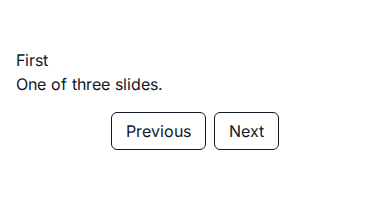
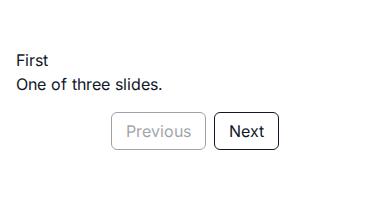
fix(astro-kit): carousel ends, footer heading link, PostCard read-more/date style/75ch excerpt (#626)

diff --git a/packages/astro-kit/tests/carousel-runtime.test.ts b/packages/astro-kit/tests/carousel-runtime.test.ts
@@ -1,0 +1,103 @@
+// @vitest-environment happy-dom
+import { afterEach, beforeEach, describe, expect, it, vi } from 'vitest'
+import { initBehaviors } from '../components/_shared/behaviors'
+
+/**
+ * A carousel island does not loop (owl's own default, `loop: false`): Previous is off on the first slide and Next on the
+ * last. Before, both were always on, so Previous on the first slide did nothing (x08's G-interaction failed on it). Run
+ * against the module itself, in a DOM; happy-dom has no layout, so the track's sizes and its scroll are stubbed.
+ */
+
+const SLIDER = '<div data-cr-behavior="carousel" data-cr-items=".slide"><div class="track"><div class="slide">One</div><div class="slide">Two</div><div class="slide">Three</div></div></div>'
+
+/** The track three 300 px slides wide, scrolled by its buttons as a browser would (`row`: its measured content width). */
+function layout(track: HTMLElement, width = 300, row = width * 3): void {
+  let left = 0
+  Object.defineProperty(track, 'clientWidth', { configurable: true, get: () => width })
+  Object.defineProperty(track, 'scrollWidth', { configurable: true, get: () => row })
+  Object.defineProperty(track, 'scrollLeft', { configurable: true, get: () => left })
+  track.scrollBy = ((options: ScrollToOptions) => {
+    left = Math.max(0, Math.min(width * 2, left + (options.left ?? 0)))
+    track.dispatchEvent(new Event('scroll'))
+  }) as typeof track.scrollBy
+}
+
+const track = () => document.querySelector<HTMLElement>('.track')!
+const buttons = () => [...document.querySelectorAll<HTMLButtonElement>('.cr-behavior-control')]
+const state = () => buttons().map(button => [button.textContent, button.disabled, button.getAttribute('aria-disabled')])
+
+beforeEach(() => {
+  document.body.innerHTML = SLIDER
+  vi.stubGlobal('ResizeObserver', undefined)
+})
+
+afterEach(() => {
+  vi.unstubAllGlobals()
+  vi.restoreAllMocks()
+})
+
+describe('carousel ends (behaviors.ts carousel)', () => {
+  it('on the first slide Previous is off, on the last Next is off, in between both are on', () => {
+    layout(track())
+    initBehaviors()
+    expect(state()).toEqual([['Previous', true, 'true'], ['Next', false, 'false']])
+    const [prev, next] = buttons()
+    next!.click()
+    expect(state()).toEqual([['Previous', false, 'false'], ['Next', false, 'false']])
+    next!.click()
+    expect(state()).toEqual([['Previous', false, 'false'], ['Next', true, 'true']])
+    prev!.click()
+    prev!.click()
+    expect(state()).toEqual([['Previous', true, 'true'], ['Next', false, 'false']])
+  })
+
+  it('a swipe (the track scrolled without the buttons) moves the ends too', () => {
+    layout(track())
+    initBehaviors()
+    track().scrollBy({ left: 600 })
+    expect(state()).toEqual([['Previous', false, 'false'], ['Next', true, 'true']])
+  })
+
+  it('a track not laid out yet (in a closed tab) keeps both on; once it has a width the resize sets the ends', () => {
+    const observed: Array<() => void> = []
+    vi.stubGlobal('ResizeObserver', class {
+      constructor(callback: () => void) { observed.push(callback) }
+      observe() {}
+    })
+    layout(track(), 0)
+    initBehaviors()
+    expect(state()).toEqual([['Previous', false, null], ['Next', false, null]])
+    layout(track())
+    for (const callback of observed) callback()
+    expect(state()).toEqual([['Previous', true, 'true'], ['Next', false, 'false']])
+  })
+  it('a row that does not overflow yet (its frame as wide as its slides) keeps both on; a slide resizing sets the ends', () => {
+    const observed: Array<{ callback: () => void, boxes: Element[] }> = []
+    vi.stubGlobal('ResizeObserver', class {
+      boxes: Element[] = []
+      constructor(callback: () => void) { observed.push({ callback, boxes: this.boxes }) }
+      observe(box: Element) { this.boxes.push(box) }
+    })
+    layout(track(), 900, 900)
+    initBehaviors()
+    expect(state()).toEqual([['Previous', false, null], ['Next', false, null]])
+    expect(observed[0]!.boxes).toEqual([track(), ...document.querySelectorAll('.slide')])
+    layout(track())
+    observed[0]!.callback()
+    expect(state()).toEqual([['Previous', true, 'true'], ['Next', false, 'false']])
+    // Back to a row that fits: both on again, never left off.
+    layout(track(), 900, 900)
+    observed[0]!.callback()
+    expect(state()).toEqual([['Previous', false, 'false'], ['Next', false, 'false']])
+  })
+
+  it('the page\'s load measures a row laid out after the script ran', () => {
+    vi.spyOn(document, 'readyState', 'get').mockReturnValue('loading')
+    layout(track(), 900, 900)
+    initBehaviors()
+    expect(state()).toEqual([['Previous', false, null], ['Next', false, null]])
+    layout(track())
+    window.dispatchEvent(new Event('load'))
+    expect(state()).toEqual([['Previous', true, 'true'], ['Next', false, 'false']])
+  })
+})

diff --git a/packages/types/src/project-plan.ts b/packages/types/src/project-plan.ts
@@ -145,8 +145,10 @@ export interface PlanSite {
    * fit), or `aspect` (`16 / 9`) where the source uses an aspect ratio; absent, 16 / 9. `gap`: the grid's column gap
    * (a CSS length). `headingWidth`: the archive title box's width (a CSS length). `tieOrder`: how posts of the same
    * moment are ordered as the source's database returned them (`asc`: the lower ID first); absent, `desc`.
+   * `moreLabel`: the source's own read-more words under each card ("READ ARTICLE"), plain text; absent, none.
+   * `dateStyle`: how the cards write their date, as the source does (`Intl` `dateStyle`); absent, `long`.
    */
-  lists?: { display: 'cards' | 'list' | 'full', heading: boolean, text?: string, tone?: 'muted', surface?: boolean, byline?: boolean, prefixed?: boolean, columns?: number, image?: { height?: string, aspect?: string }, gap?: string, headingWidth?: string, tieOrder?: 'asc' | 'desc' }
+  lists?: { display: 'cards' | 'list' | 'full', heading: boolean, text?: string, tone?: 'muted', surface?: boolean, byline?: boolean, prefixed?: boolean, columns?: number, image?: { height?: string, aspect?: string }, gap?: string, headingWidth?: string, tieOrder?: 'asc' | 'desc', moreLabel?: string, dateStyle?: 'full' | 'long' | 'medium' | 'short' }
   /**
    * The interface text the source theme itself printed (its "Read more" link, skip link, search placeholder, the
    * previous and next labels), by the `site/ui-strings` key it answers (`blog.read_more`, `nav.skip`): written over the
@@ -664,6 +666,8 @@ export function validateProjectPlan(plan: ProjectPlan): ProjectPlanReport {
   if (site?.lists?.image?.height !== undefined && !CSS_LENGTH.test(site.lists.image.height)) errors.push(`site.lists.image.height ${site.lists.image.height} is not a CSS size`)
   if (site?.lists?.image?.aspect !== undefined && !/^\d+(?:\.\d+)?\s*\/\s*\d+(?:\.\d+)?$/.test(site.lists.image.aspect)) errors.push(`site.lists.image.aspect ${site.lists.image.aspect} is not a ratio like 16 / 9`)
   if (site?.lists?.tieOrder !== undefined && site.lists.tieOrder !== 'asc' && site.lists.tieOrder !== 'desc') errors.push(`site.lists.tieOrder ${String(site.lists.tieOrder)} is not asc or desc`)
+  if (site?.lists?.moreLabel !== undefined && (typeof site.lists.moreLabel !== 'string' || !/^[^<>\n]{1,40}$/.test(site.lists.moreLabel) || !site.lists.moreLabel.trim())) errors.push('site.lists.moreLabel is not plain words of 1-40 characters')
+  if (site?.lists?.dateStyle !== undefined && !['full', 'long', 'medium', 'short'].includes(site.lists.dateStyle)) errors.push(`site.lists.dateStyle ${String(site.lists.dateStyle)} is not full, long, medium or short`)
   for (const [route, layout] of Object.entries(site?.entryLayouts ?? {})) {
     if (typeof layout?.adjacent !== 'boolean') errors.push(`site.entryLayouts.${route}.adjacent is not true or false`)
     if (layout?.more !== undefined && (!Number.isSafeInteger(layout.more) || layout.more < 0 || layout.more > 20)) errors.push(`site.entryLayouts.${route}.more is not a count from 0 to 20`)

diff --git a/packages/astro-kit/components/_shared/behaviors.ts b/packages/astro-kit/components/_shared/behaviors.ts
@@ -87,6 +87,12 @@ function control(label: string, onClick: () => void): HTMLButtonElement {
   return button
 }
 
+/** A carousel button on or off; `aria-disabled` is said once the row has been measured, and kept true to its state after. */
+function setEnd(button: HTMLButtonElement, off: boolean, measured: boolean): void {
+  button.disabled = off
+  if (measured || button.hasAttribute('aria-disabled')) button.setAttribute('aria-disabled', String(off))
+}
+
 function carousel(root: HTMLElement): void {
   const items = within(root, root.dataset.crItems)
   const track = items[0]?.parentElement
@@ -98,10 +104,27 @@ function carousel(root: HTMLElement): void {
   for (const item of items) Object.assign(item.style, { flex: '0 0 100%', scrollSnapAlign: 'start' })
   track.setAttribute('tabindex', '0')
   const go = (step: number) => track.scrollBy({ left: step * track.clientWidth })
+  const prev = control(root.dataset.crPrev ?? 'Previous', () => go(-1))
+  const next = control(root.dataset.crNext ?? 'Next', () => go(1))
+  // No loop (owl's own default): Previous is off on the first slide and Next on the last, so neither is a dead button.
+  // A row that does not overflow yet (a closed tab or dialog, a frame still sized to its slides) keeps both on: only a
+  // track measured wider than its frame has ends. The track or a slide resizing, and the page's load, measure it again.
+  const ends = () => {
+    const overflows = track.clientWidth > 0 && track.scrollWidth > track.clientWidth + 1
+    setEnd(prev, overflows && track.scrollLeft <= 1, overflows)
+    setEnd(next, overflows && track.scrollLeft + track.clientWidth >= track.scrollWidth - 1, overflows)
+  }
+  track.addEventListener('scroll', ends, { passive: true })
+  if (typeof ResizeObserver === 'function') {
+    const resized = new ResizeObserver(ends)
+    for (const box of [track, ...items]) resized.observe(box)
+  }
+  if (document.readyState !== 'complete') addEventListener('load', ends, { once: true })
   const bar = document.createElement('div')
   bar.className = 'cr-behavior-controls'
-  bar.append(control(root.dataset.crPrev ?? 'Previous', () => go(-1)), control(root.dataset.crNext ?? 'Next', () => go(1)))
+  bar.append(prev, next)
   track.after(bar)
+  ends()
 }
 
 function dialog(root: HTMLElement): void {

diff --git a/packages/astro-kit/tests/starter-footer-titles.test.ts b/packages/astro-kit/tests/starter-footer-titles.test.ts
@@ -7,7 +7,7 @@ const STARTER = join(import.meta.dirname, '..', '..', '..', 'templates', 'astro-
 describe('the starter\'s footer menus are named by the heading the site prints, never by an admin name over it', () => {
   it('a column with a heading is named by it (no aria-label from the menu name); one without keeps the name', async () => {
     const layout = await readFile(join(STARTER, 'layouts', 'BaseLayout.astro'), 'utf8')
-    expect(layout).toContain('({ label: menu.title ? undefined : menu.name, title: menu.title, links:')
+    expect(layout).toContain('({ label: menu.title ? undefined : menu.name, title: menu.title, titleHref: menu.titleHref, links:')
   })
 
   it('a lone footer menu (the simple layout, no visible heading) is named by its heading before its name', async () => {
@@ -15,8 +15,15 @@ describe('the starter\'s footer menus are named by the heading the site prints, 
     expect(layout).toContain("navLabel={footerColumns[0]?.title ?? footerColumns[0]?.name ?? t('nav.footer')}")
   })
 
-  it('the heading comes from the menu entry\'s own title, absent when empty', async () => {
+  it('the heading comes from the menu entry\'s own title, absent when empty; its link only beside a heading', async () => {
     const links = await readFile(join(STARTER, 'lib', 'links.ts'), 'utf8')
-    expect(links).toContain('({ name: menu.data.name, title: menu.data.title || undefined, items: await menuItems(menu) })')
+    expect(links).toContain('({ name: menu.data.name, title: menu.data.title || undefined, titleHref: (menu.data.title && menu.data.title_href) || undefined, items: await menuItems(menu) })')
+  })
+
+  it('a column heading with a link is drawn as a link to it, in the kit and in the starter\'s copy alike', async () => {
+    for (const path of [join(import.meta.dirname, '..', 'components', 'footer', 'Footer.astro'), join(STARTER, 'components', 'kit', 'footer', 'Footer.astro')]) {
+      const footer = await readFile(path, 'utf8')
+      expect(footer).toContain('{column.titleHref ? <a href={safeHref(column.titleHref)} class="text-current no-underline hover:underline">{column.title}</a> : column.title}')
+    }
   })
 })

diff --git a/packages/astro-kit/tests/post-card.test.ts b/packages/astro-kit/tests/post-card.test.ts
@@ -1,0 +1,37 @@
+import { readFile } from 'node:fs/promises'
+import { join } from 'node:path'
+import { describe, expect, it } from 'vitest'
+
+const KIT = join(import.meta.dirname, '..')
+const COPIES = [join(KIT, 'components', 'post-card', 'PostCard.astro'), join(KIT, '..', '..', 'templates', 'astro-starter', 'src', 'components', 'kit', 'post-card', 'PostCard.astro')]
+
+/** x12's post list (t2): the source's own "READ ARTICLE" under each card, its short dates, and excerpts over 75 characters a line at 1280. */
+describe('PostCard: the source\'s read-more words, its date style, and a readable excerpt line', () => {
+  it('the kit and the starter\'s copy are the same file', async () => {
+    const [kit, starter] = await Promise.all(COPIES.map(path => readFile(path, 'utf8')))
+    expect(starter).toBe(kit)
+  })
+
+  it('prints the read-more words only on a linked card, as words: the title link stays the one link', async () => {
+    const card = await readFile(COPIES[0]!, 'utf8')
+    expect(card).toContain('{href && moreLabel && <p class="text-sm font-semibold text-accent-text" aria-hidden="true">{moreLabel}</p>}')
+    expect(card.match(/<a href=\{safeHref\(href\)\}/g)).toHaveLength(1)
+  })
+
+  it('writes the date in the style it is given, long when none is', async () => {
+    const card = await readFile(COPIES[0]!, 'utf8')
+    expect(card).toContain("dateStyle = 'long'")
+    expect(card).toContain('toLocaleDateString(locale, { dateStyle, timeZone })')
+    expect(card).not.toContain("dateStyle: 'long'")
+  })
+
+  it('caps the excerpt at ~75 characters a line in every layout', async () => {
+    const card = await readFile(COPIES[0]!, 'utf8')
+    expect(card).toContain("excerpt: 'max-w-[75ch] text-ink-muted'")
+  })
+
+  it('the starter\'s lists pass the site\'s read-more words and date style; absent, the card is as before', async () => {
+    const list = await readFile(join(KIT, '..', '..', 'templates', 'astro-starter', 'src', 'views', 'ListView.astro'), 'utf8')
+    expect(list).toContain('moreLabel={siteConfig.lists.moreLabel} dateStyle={siteConfig.lists.dateStyle}')
+  })
+})

diff --git a/templates/astro-starter/src/lib/links.ts b/templates/astro-starter/src/lib/links.ts
@@ -334,9 +334,9 @@ const AREAS = {
  * The menus an area shows, as WordPress places them: a menu assigned to theme locations shows where
  * they are, so moving or unassigning it in Studio moves it on the site; a menu with no location shows
  * where site.config names it. Each comes with its name, the navigation's accessible name, and the heading the source
- * printed above it, if any (`title`: a footer column's).
+ * printed above it, if any (`title`: a footer column's), and where that heading links when it is a link (`titleHref`).
  */
-export async function menusAt(area: keyof typeof AREAS): Promise<Array<{ name: string, title?: string | undefined, items: NavItem[] }>> {
+export async function menusAt(area: keyof typeof AREAS): Promise<Array<{ name: string, title?: string | undefined, titleHref?: string | undefined, items: NavItem[] }>> {
   const configured = area === 'header' ? [siteConfig.menus.primary] : [...siteConfig.menus.footer]
   const all = await getCollection('menus')
   const placed = all.filter(menu => (menu.data.locations?.length ? menu.data.locations.some(AREAS[area]) : configured.includes(menu.data.slug)))
@@ -345,7 +345,7 @@ export async function menusAt(area: keyof typeof AREAS): Promise<Array<{ name: s
     return index === -1 ? configured.length : index
   }
   const ordered = placed.toSorted((a, b) => rank(a) - rank(b) || String(a.data.locations ?? '').localeCompare(String(b.data.locations ?? '')))
-  return Promise.all((area === 'header' ? ordered.slice(0, 1) : ordered).map(async menu => ({ name: menu.data.name, title: menu.data.title || undefined, items: await menuItems(menu) })))
+  return Promise.all((area === 'header' ? ordered.slice(0, 1) : ordered).map(async menu => ({ name: menu.data.name, title: menu.data.title || undefined, titleHref: (menu.data.title && menu.data.title_href) || undefined, items: await menuItems(menu) })))
 }
 
 type Menu = CollectionEntry<'menus'>

diff --git a/packages/wp-import/src/contentrain.ts b/packages/wp-import/src/contentrain.ts
@@ -705,6 +705,8 @@ export function rawToContentrain(input: RawIR, opts?: RawToContentrainOptions): 
 
   // ── menus ──
   const menus = raw.menus ?? []
+  // A printed heading that is a link (x12's footer `<h2><a href="/services/">`): its address, only beside a heading.
+  const headingLink = (m: (typeof menus)[number]): boolean => Boolean(m.title && strip(m.title) && m.titleHref?.trim())
   if (menus.length) {
     addModel({
       id: 'menus', name: 'Menus', kind: 'collection', domain: 'site', i18n: false, title_field: 'name',
@@ -717,6 +719,8 @@ export function rawToContentrain(input: RawIR, opts?: RawToContentrainOptions): 
         ...(menus.some((m) => m.locations?.length) ? { locations: { type: 'array', items: 'string', label: 'Locations', order: 50 } as FieldDef } : {}),
         // Only when the source printed a heading above a menu: the site prints this, never the name.
         ...(menus.some((m) => m.title && strip(m.title)) ? { title: { type: 'string', label: 'Heading', order: 15 } as FieldDef } : {}),
+        // Only when a printed heading is a link: the heading keeps it.
+        ...(menus.some(headingLink) ? { title_href: { type: 'url', label: 'Heading link', order: 16 } as FieldDef } : {}),
       },
     })
     const toTarget = relationOver([...contentModelIds, ...taxonomies.map(taxModelId)])
@@ -747,6 +751,7 @@ export function rawToContentrain(input: RawIR, opts?: RawToContentrainOptions): 
         ...(m.id !== null && m.id > 0 ? { wp_id: m.id } : {}),
         ...(m.locations?.length ? { locations: m.locations } : {}),
         ...(m.title && strip(m.title) ? { title: strip(m.title) } : {}),
+        ...(headingLink(m) ? { title_href: m.titleHref!.trim() } : {}),
       }
       metas.menus![mid] = importMeta('published')
       for (const i of m.items) {

diff --git a/packages/wp-import/src/contentrain.test.ts b/packages/wp-import/src/contentrain.test.ts
@@ -329,6 +329,19 @@ describe('rawToContentrain', () => {
     expect(menus.find(m => m.slug === 'legal')).not.toHaveProperty('title')
   })
 
+  it('a printed heading that is a link keeps its address; the model gains the field only then, and never without a heading', async () => {
+    const { raw } = await parseWxr(FIXTURE)
+    const [menu] = raw.menus ?? []
+    const plain = rawToContentrain({ ...raw, menus: [{ ...menu!, title: 'Company' }, { ...menu!, id: 77, slug: 'legal', name: 'Footer Menu 2', items: [], titleHref: '/legal/' }] }, { updatedBy: 'test' })
+    expect(JSON.parse(plain.files['.contentrain/models/menus.json']!).fields).not.toHaveProperty('title_href')
+    const linked = rawToContentrain({ ...raw, menus: [{ ...menu!, title: 'OUR SERVICES', titleHref: ' /services/ ' }, { ...menu!, id: 77, slug: 'legal', name: 'Footer Menu 2', items: [], titleHref: '/legal/' }] }, { updatedBy: 'test' })
+    expect(JSON.parse(linked.files['.contentrain/models/menus.json']!).fields.title_href).toMatchObject({ type: 'url', label: 'Heading link' })
+    const menus = Object.values(JSON.parse(linked.files['.contentrain/content/site/menus/data.json']!)) as Array<{ slug: string, title_href?: string }>
+    expect(menus.find(m => m.slug === menu!.slug)?.title_href).toBe('/services/')
+    // An address with no heading to carry it is dropped.
+    expect(menus.find(m => m.slug === 'legal')).not.toHaveProperty('title_href')
+  })
+
   it('is deterministic', async () => {
     const { raw } = await parseWxr(FIXTURE)
     const a = rawToContentrain(raw, { updatedBy: 'test' })

diff --git a/templates/astro-starter/src/site.config.ts b/templates/astro-starter/src/site.config.ts
@@ -145,9 +145,10 @@ export interface SiteConfig {
    * fit) or, where the source uses one, its `aspect` (`16 / 9`); absent, 16 / 9. `gap`: the grid's column gap (a CSS
    * length); absent, 2rem. `headingWidth`: the width of the archive title's box (a CSS length); absent, 42rem.
    * `tieOrder`: how posts of the same moment are ordered, as the source's database returned them (`asc` the lower ID first);
-   * absent, `desc`.
+   * absent, `desc`. `moreLabel`: the source's own read-more words under each card ("READ ARTICLE"); absent, none.
+   * `dateStyle`: how the cards write their date, as the source does; absent, long.
    */
-  lists: { display: 'cards' | 'list' | 'full', heading: boolean, text?: string, tone?: 'muted', surface?: boolean, byline?: boolean, prefixed?: boolean, columns?: number, image?: { height?: string, aspect?: string }, gap?: string, headingWidth?: string, tieOrder?: 'asc' | 'desc' }
+  lists: { display: 'cards' | 'list' | 'full', heading: boolean, text?: string, tone?: 'muted', surface?: boolean, byline?: boolean, prefixed?: boolean, columns?: number, image?: { height?: string, aspect?: string }, gap?: string, headingWidth?: string, tieOrder?: 'asc' | 'desc', moreLabel?: string, dateStyle?: 'full' | 'long' | 'medium' | 'short' }
   /**
    * The footer as the source prints it (a migration reads each off the rendered footer); a key absent keeps the
    * starter's own. `feed`: the "RSS feed" link in the last column (`/rss.xml` itself is always served). `border`: a

diff --git a/packages/types/src/project-plan.test.ts b/packages/types/src/project-plan.test.ts
@@ -478,6 +478,12 @@ describe('validateProjectPlan', () => {
       'site.lists.image.aspect wide is not a ratio like 16 / 9',
       'site.lists.tieOrder up is not asc or desc',
     ])
+    p.site.lists = { display: p.site.lists.display, heading: p.site.lists.heading, moreLabel: 'READ ARTICLE', dateStyle: 'medium' }
+    expect(validateProjectPlan(p).errors).toEqual([])
+    p.site.lists = { display: p.site.lists.display, heading: p.site.lists.heading, moreLabel: '<b>More</b>', dateStyle: 'tiny' as 'short' }
+    expect(validateProjectPlan(p).errors).toEqual(['site.lists.moreLabel is not plain words of 1-40 characters', 'site.lists.dateStyle tiny is not full, long, medium or short'])
+    p.site.lists = { display: p.site.lists.display, heading: p.site.lists.heading, moreLabel: '  ' }
+    expect(validateProjectPlan(p).errors).toEqual(['site.lists.moreLabel is not plain words of 1-40 characters'])
     p.site.lists = { display: p.site.lists.display, heading: p.site.lists.heading }
     p.site.lists.text = 'red; color: blue'
     p.site.chrome = { brand: 'clamp(url(x))', copyright: '<b>x</b>', navLinks: 'yes' as unknown as boolean, brandColor: 'red; background: url(x)', footerAlign: 'middle' as 'center' }

diff --git a/packages/types/src/migration.ts b/packages/types/src/migration.ts
@@ -251,6 +251,11 @@ export interface RawMenu {
    * menu's name, which is an admin label: absent when the page prints none, or the producer did not read it.
    */
   title?: string
+  /**
+   * Where that heading links, when the site prints it as a link (x12's Beaver footer: `<h2><a href="/services/">OUR
+   * SERVICES</a></h2>`). Only with a `title`; absent when the heading is plain text.
+   */
+  titleHref?: string
 }
 
 export interface RawComment {

diff --git a/templates/fixtures/entry-path/src/content.config.ts b/templates/fixtures/entry-path/src/content.config.ts
@@ -101,6 +101,7 @@ export const collections = {
       name: z.string(),
       slug: z.string(),
       title: z.string().optional(),
+      title_href: z.string().optional(),
       wp_id: z.number().int().optional(),
     }),
   }),
